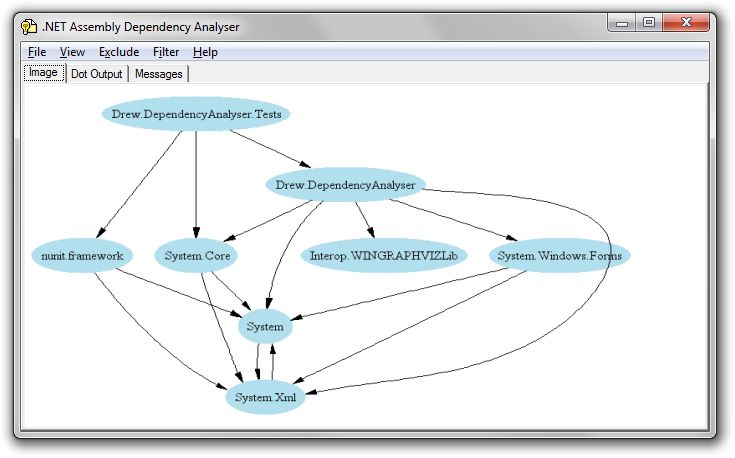
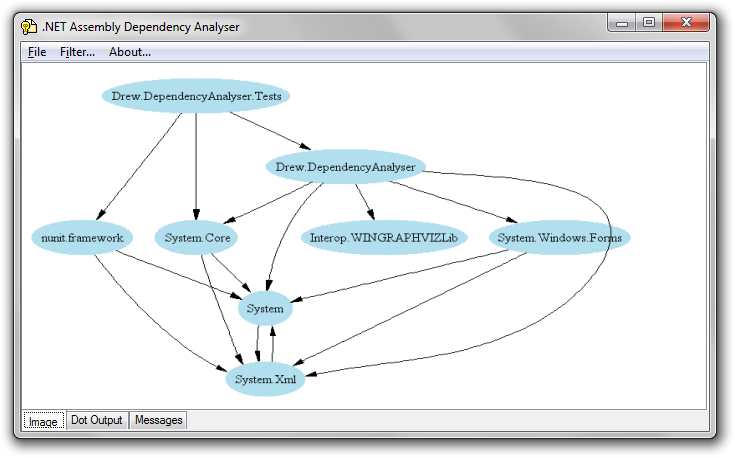
Updated filter window size. Updated screenshots, replacing old menu-exclude.png with new filter-window.png.
git-svn-id: https://dependency-analyser.googlecode.com/svn/trunk@17 8aec1112-6466-6e08-e931-4141cac027a1

diff --git a/Source/Drew.DependencyAnalyser/FilterForm.Designer.cs b/Source/Drew.DependencyAnalyser/FilterForm.Designer.cs
@@ -30,7 +30,6 @@ namespace Drew.DependencyAnalyser
         /// </summary>
         private void InitializeComponent()
         {
-            System.ComponentModel.ComponentResourceManager resources = new System.ComponentModel.ComponentResourceManager(typeof(FilterForm));
             this._btnSelectNone = new System.Windows.Forms.Button();
             this._btnSelectAll = new System.Windows.Forms.Button();
             this._btnCancel = new System.Windows.Forms.Button();
@@ -38,12 +37,12 @@ namespace Drew.DependencyAnalyser
             this._tree = new Drew.DependencyAnalyser.Controls.TriStateTreeView();
             this.SuspendLayout();
             // 
-            // _btnRemoveAll
+            // _btnSelectNone
             // 
             this._btnSelectNone.Anchor = ((System.Windows.Forms.AnchorStyles)((System.Windows.Forms.AnchorStyles.Bottom | System.Windows.Forms.AnchorStyles.Left)));
-            this._btnSelectNone.Location = new System.Drawing.Point(103, 305);
+            this._btnSelectNone.Location = new System.Drawing.Point(93, 414);
             this._btnSelectNone.Name = "_btnSelectNone";
-            this._btnSelectNone.Size = new System.Drawing.Size(85, 23);
+            this._btnSelectNone.Size = new System.Drawing.Size(75, 23);
             this._btnSelectNone.TabIndex = 9;
             this._btnSelectNone.Text = "Select &None";
             this._btnSelectNone.UseVisualStyleBackColor = true;
@@ -52,9 +51,9 @@ namespace Drew.DependencyAnalyser
             // _btnSelectAll
             // 
             this._btnSelectAll.Anchor = ((System.Windows.Forms.AnchorStyles)((System.Windows.Forms.AnchorStyles.Bottom | System.Windows.Forms.AnchorStyles.Left)));
-            this._btnSelectAll.Location = new System.Drawing.Point(12, 305);
+            this._btnSelectAll.Location = new System.Drawing.Point(12, 414);
             this._btnSelectAll.Name = "_btnSelectAll";
-            this._btnSelectAll.Size = new System.Drawing.Size(85, 23);
+            this._btnSelectAll.Size = new System.Drawing.Size(75, 23);
             this._btnSelectAll.TabIndex = 8;
             this._btnSelectAll.Text = "Select &All";
             this._btnSelectAll.UseVisualStyleBackColor = true;
@@ -64,7 +63,7 @@ namespace Drew.DependencyAnalyser
             // 
             this._btnCancel.Anchor = ((System.Windows.Forms.AnchorStyles)((System.Windows.Forms.AnchorStyles.Bottom | System.Windows.Forms.AnchorStyles.Right)));
             this._btnCancel.DialogResult = System.Windows.Forms.DialogResult.Cancel;
-            this._btnCancel.Location = new System.Drawing.Point(320, 305);
+            this._btnCancel.Location = new System.Drawing.Point(261, 414);
             this._btnCancel.Name = "_btnCancel";
             this._btnCancel.Size = new System.Drawing.Size(75, 23);
             this._btnCancel.TabIndex = 14;
@@ -75,7 +74,7 @@ namespace Drew.DependencyAnalyser
             // 
             this._btnOK.Anchor = ((System.Windows.Forms.AnchorStyles)((System.Windows.Forms.AnchorStyles.Bottom | System.Windows.Forms.AnchorStyles.Right)));
             this._btnOK.DialogResult = System.Windows.Forms.DialogResult.OK;
-            this._btnOK.Location = new System.Drawing.Point(239, 305);
+            this._btnOK.Location = new System.Drawing.Point(180, 414);
             this._btnOK.Name = "_btnOK";
             this._btnOK.Size = new System.Drawing.Size(75, 23);
             this._btnOK.TabIndex = 15;
@@ -92,7 +91,7 @@ namespace Drew.DependencyAnalyser
             this._tree.Location = new System.Drawing.Point(12, 12);
             this._tree.Name = "_tree";
             this._tree.SelectedImageIndex = 1;
-            this._tree.Size = new System.Drawing.Size(383, 287);
+            this._tree.Size = new System.Drawing.Size(324, 396);
             this._tree.TabIndex = 16;
             // 
             // FilterForm
@@ -102,7 +101,7 @@ namespace Drew.DependencyAnalyser
             this.AutoScaleMode = System.Windows.Forms.AutoScaleMode.Font;
             this.BackColor = System.Drawing.SystemColors.Control;
             this.CancelButton = this._btnCancel;
-            this.ClientSize = new System.Drawing.Size(407, 334);
+            this.ClientSize = new System.Drawing.Size(348, 444);
             this.Controls.Add(this._tree);
             this.Controls.Add(this._btnOK);
             this.Controls.Add(this._btnCancel);
@@ -110,7 +109,7 @@ namespace Drew.DependencyAnalyser
             this.Controls.Add(this._btnSelectAll);
             this.FormBorderStyle = System.Windows.Forms.FormBorderStyle.SizableToolWindow;
             this.MaximizeBox = false;
-            this.MinimumSize = new System.Drawing.Size(373, 144);
+            this.MinimumSize = new System.Drawing.Size(364, 150);
             this.Name = "FilterForm";
             this.Text = "Filter";
             this.ResumeLayout(false);
